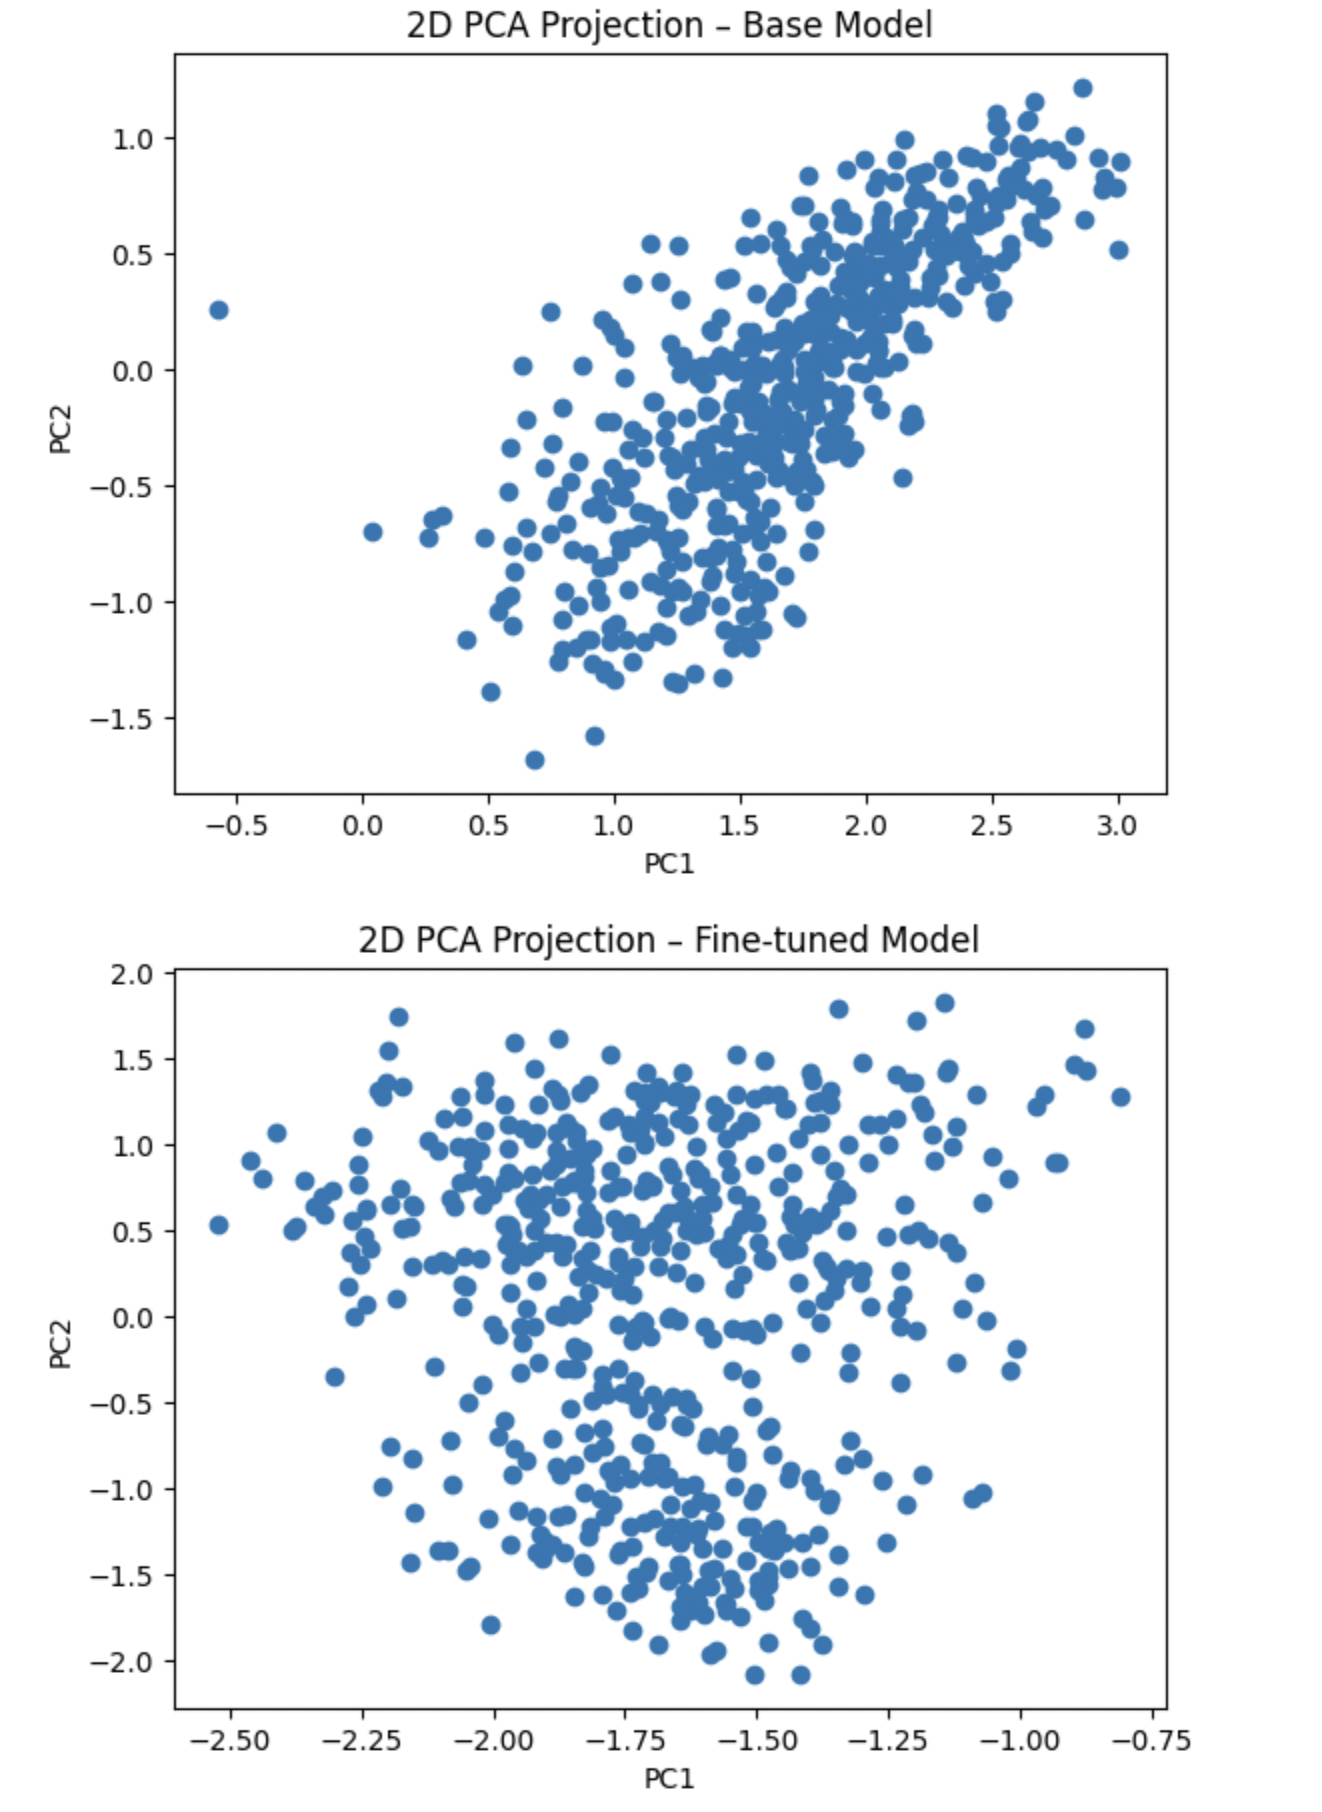
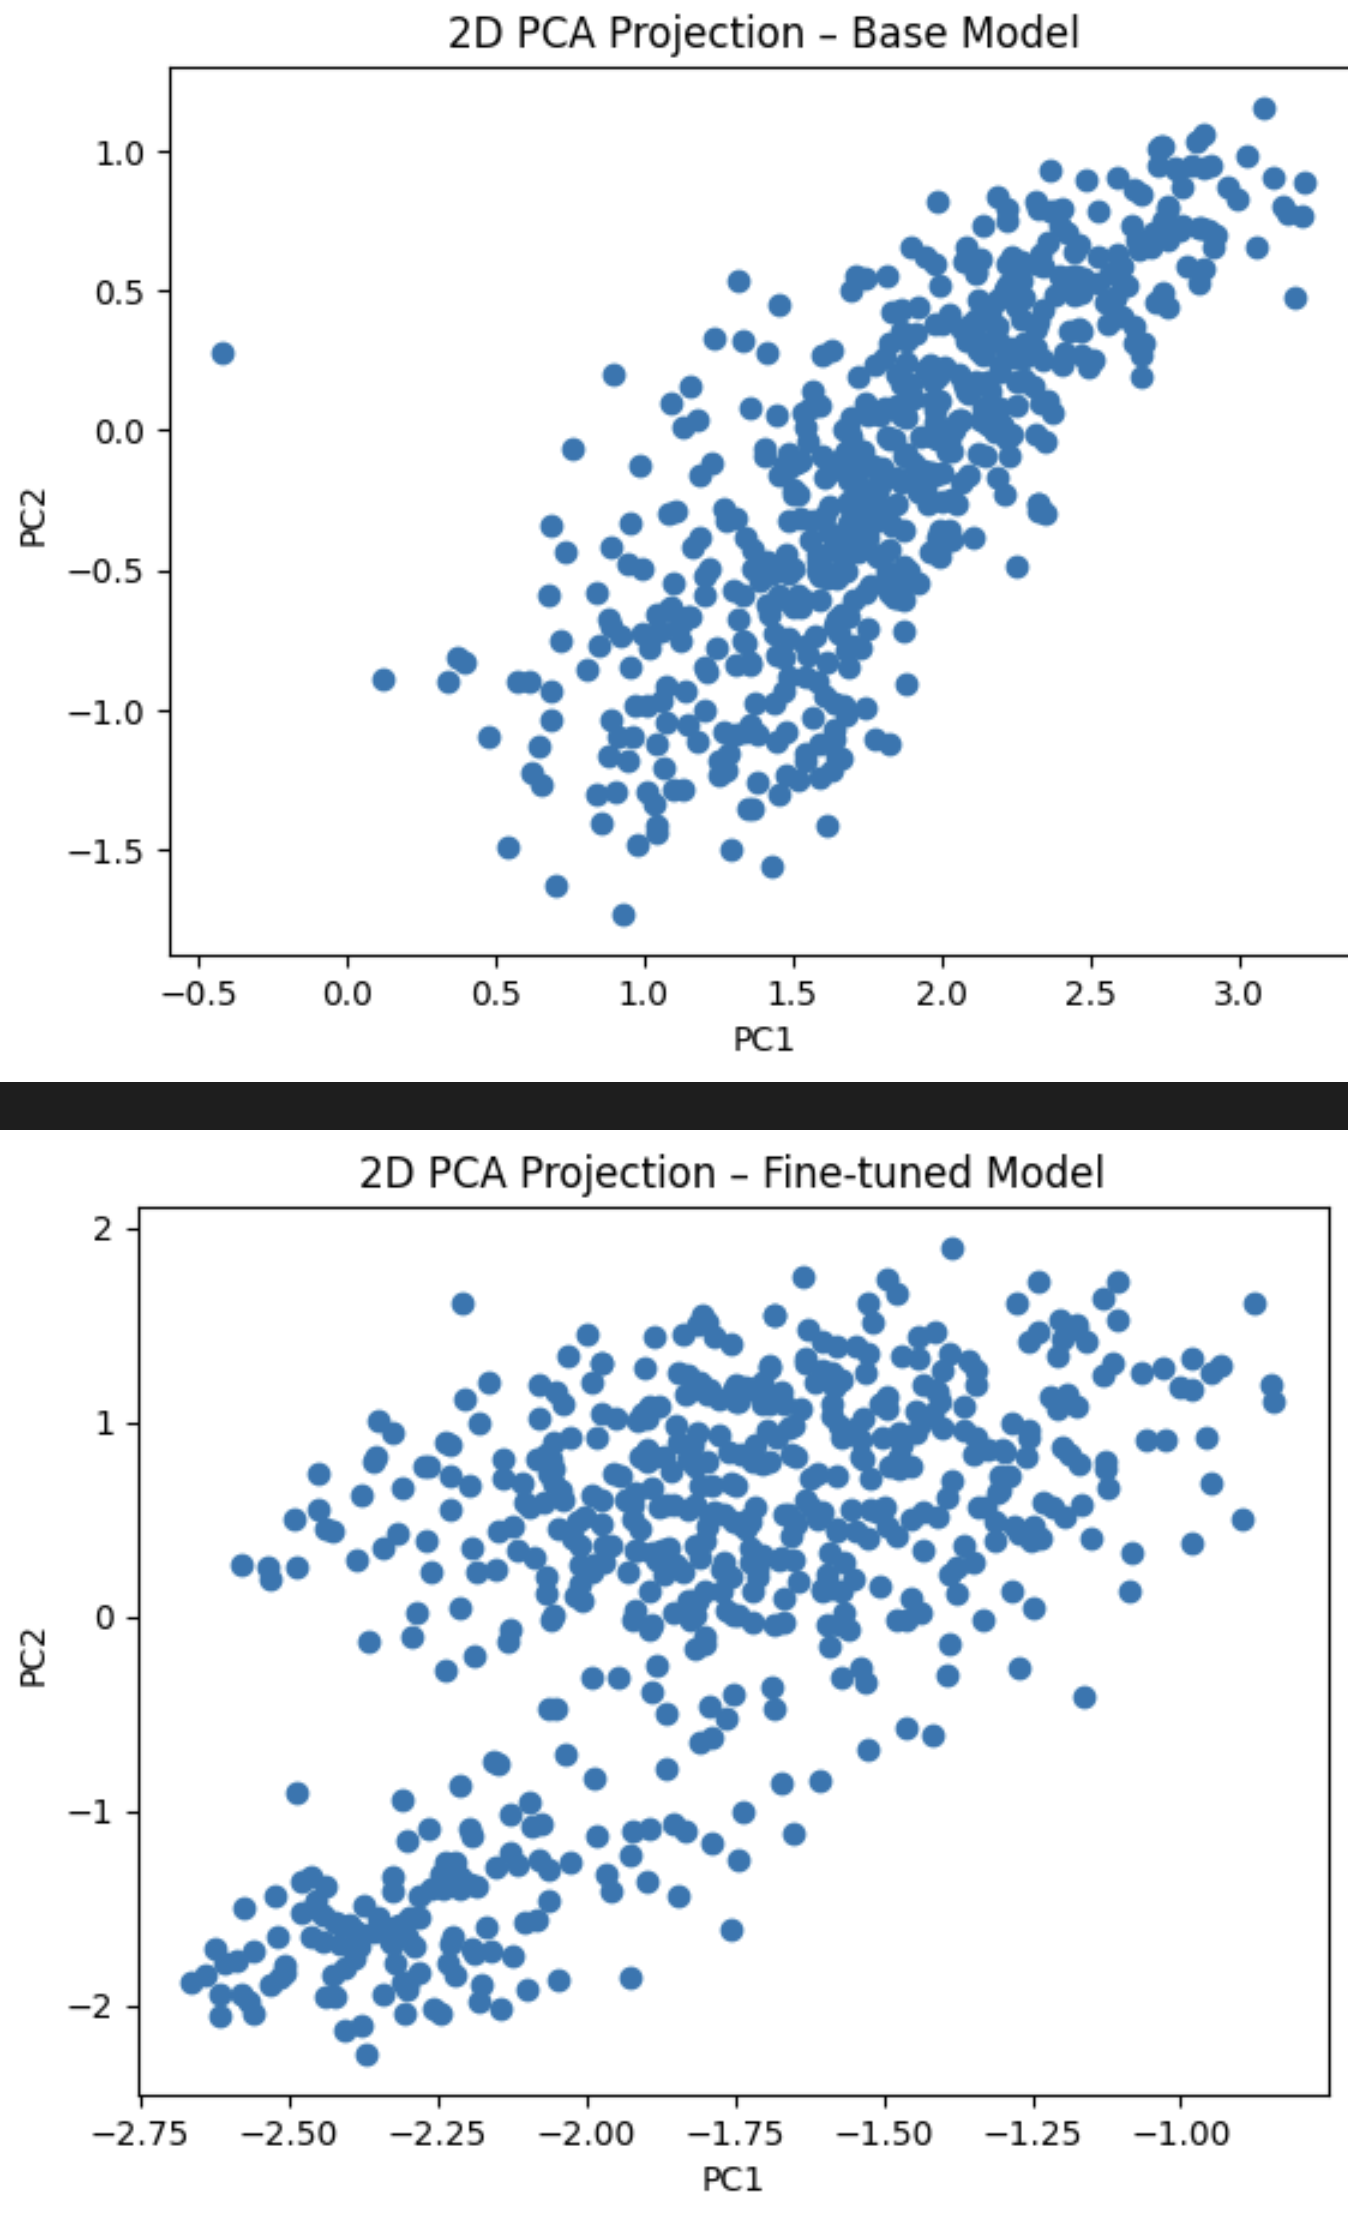
Massive boost in metrics

Changed region(s): [[0.0, 0.0, 1.0, 0.989], [0.0, 0.2163, 0.062, 0.2472], [0.8684, 0.4018, 0.8994, 0.4327]]

diff --git a/README.md b/README.md
@@ -1,6 +1,6 @@
 # Book Recommendation Engine
 
-Перш ніж виконувати скрипти створіть середовище за допомогою pyenv та встановіть залежності 
+Перш ніж виконувати скрипти створіть середовище за допомогою pyenv та встановіть залежності
 
 ```bash
 pip install -r requirements.txt
@@ -27,23 +27,35 @@ docker run -p 8501:8501 my-streamlit-app
 
 Далі можна відкрити URL в браузері для тестування за портом 8501
 
-http://0.0.0.0:8501
-
+[http://0.0.0.0:8501](http://0.0.0.0:8501)
 
 ---
 
-Скрипти
+## Скрипти
+
+### 1. Генерація train/val/test спліту
 
 ```bash
-# для train/test/val спліту
 python scripts/split.py
+```
 
-# для валідації метрик
+#### Пояснення вибору спліту
+
+* **Test size = 10% (test\_size=0.1):** невеликий відсоток робить оцінку надійною, але зберігає достатньо даних для навчання.
+* **Validation size = 30% до залишку (val\_size=0.3):** дозволяє відслідковувати метрики під час тренування без витягнення забагато даних із навчального набору.
+* **Використання унікальних заголовків (`anchor`) при розбитті:** гарантує, що жодна книга (за назвою) не з'явиться одночасно і в навчальному, і в валідаційному чи тестовому наборі. Це запобігає витоку інформації між сетами.
+* **Фіксований seed = 42:** забезпечує відтворюваність результатів спліту при кожному виконанні.
+
+### 2. Валідація метрик
+
+```bash
 python scripts/eval.py
+```
 
-# для валідації тренування
+### 3. Тренування моделі
+
+```bash
 python scripts/train.py
-
 ```
 
 ---
@@ -55,28 +67,23 @@ python scripts/train.py
 * **Ідея:** водночас відтворювати векторні представлення і для книги, і для кожної категорії, а потім вимірювати косинусну близькість між ними.
 * **Переваги:**
 
-*  дає змогу краще захоплювати контекст із обох сторін тексту
+  * дає змогу краще захоплювати контекст із обох сторін тексту
   * підвищена стійкість до нюансів — модель навчається розуміти, як саме окремі частини опису книги співвідносяться з різними категорійними ознаками.
-
 
 ## 3. Визначення метрик якості
 
 Щоб оцінити реальну користь рекомендацій, ми вимірюємо:
 
-Precision@K корисна, коли нам важливо мінімізувати «сміття» у верхніх позиціях.
-
-Recall@K важлива, коли потрібно «покрити» якомога більше релевантного за перші K.
-
-mAP і mAP@K поєднують у собі обидва аспекти, штрафуючи як за пізнє знаходження релевантних, так і за наявність нерелевантних між ними.
-
+* **Precision\@K** корисна, коли нам важливо мінімізувати «сміття» у верхніх позиціях.
+* **Recall\@K** важлива, коли потрібно «покрити» якомога більше релевантного за перші K.
+* **mAP** і **mAP\@K** поєднують у собі обидва аспекти, штрафуючи як за пізнє знаходження релевантних, так і за наявність нерелевантних між ними.
 
 ## 4. Трекінг експериментів
 
 Для прозорого та відтворюваного аналізу результатів я використовую **Weights & Biases**:
 
-
 Найкраще тренування:
-https://wandb.ai/urik-voevidka-ukrainian-catholic-university/sentence-transformers/runs/udz5qkc0
+[https://wandb.ai/urik-voevidka-ukrainian-catholic-university/sentence-transformers/runs/udz5qkc0](https://wandb.ai/urik-voevidka-ukrainian-catholic-university/sentence-transformers/runs/udz5qkc0)
 
 ## 5. Потенційне покращення: зворотний зв’язок від користувача
 
@@ -85,10 +92,10 @@ https://wandb.ai/urik-voevidka-ukrainian-catholic-university/sentence-transforme
 * Користувач бачить запропоновану категорію і може її «лайкнути» або «дизлайкнути»
 * Зібрані реакції надходять у реальному часі й використовуються для донавчання (fine-tuning) моделі або для коригування вагів у ранжуванні
 
+## 6. Результати
 
-## 6. Результати 
+### Результати на тестовому сеті до тренування
 
-## результати на Тест Сеті до тренування 
 | Метрика                   | Значення |
 | :------------------------ | :------: |
 | **Precision\@1 (P\@1)**   |  0.0190  |
@@ -100,26 +107,28 @@ https://wandb.ai/urik-voevidka-ukrainian-catholic-university/sentence-transforme
 | **Mean AP (mAP)**         |  0.0404  |
 | **Mean AP\@15 (mAP\@15)** |  0.0290  |
 
+### Результати на тестовому сеті після тренування
 
-## результати на Тест Сеті після тренування
 | Метрика                   | Значення |
 | :------------------------ | :------: |
-| **Precision\@1 (P\@1)**   |  0.1755  |
-| **Precision\@5 (P\@5)**   |  0.1085  |
-| **Precision\@10 (P\@10)** |  0.0810  |
-| **Recall\@1 (R\@1)**      |  0.0935  |
-| **Recall\@5 (R\@5)**      |  0.2828  |
-| **Recall\@10 (R\@10)**    |  0.4191  |
-| **Mean AP (mAP)**         |  0.2332  |
-| **Mean AP\@15 (mAP\@15)** |  0.2073  |
+| **Precision\@1 (P\@1)**   |  0.6967  |
+| **Precision\@5 (P\@5)**   |  0.5131  |
+| **Precision\@10 (P\@10)** |  0.4467  |
+| **Recall\@1 (R\@1)**      |  0.0485  |
+| **Recall\@5 (R\@5)**      |  0.1763  |
+| **Recall\@10 (R\@10)**    |  0.3062  |
+| **Mean AP (mAP)**         |  0.4284  |
+| **Mean AP\@15 (mAP\@15)** |  0.2698  |
 
 
 ## 7. PCA
-Для порівняння я спроектував ебмедінги натренованої і базової моделі на 2d графіку
-Можна спостерігати що після тренування ембедінги стали більше розрідженими
 
-![alt text](pca.png)
+Для порівняння я спроектував еmbeddings натренованої і базової моделі на 2D графіку.
+Можна спостерігати, що після тренування ембедінги стали більше розрідженими.
 
-це результат ноутбуку notebooks/pca_comparison.ipynb
+![](pca.png)
 
-посилання на натреновану модель на hugging face: yuriivoievidka/microsoft_mpnet-base-librarian
+*Результат ноутбуку `notebooks/pca_comparison.ipynb`*
+
+Посилання на натреновану модель на Hugging Face:
+[`yuriivoievidka/microsoft_mpnet-base-librarian`](https://huggingface.co/yuriivoievidka/microsoft_mpnet-base-librarian)
